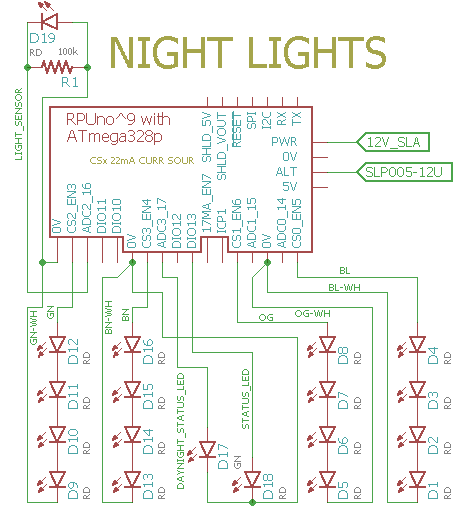
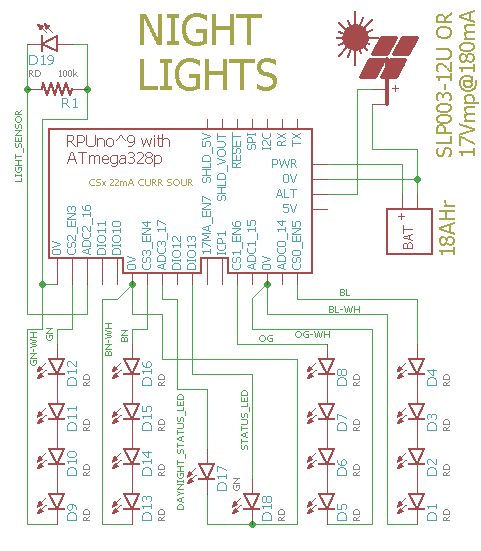
NightLight: add alternate power input for solar panel
bug noted in readme

Changed region(s): [[0.0308, 0.0, 1.0, 0.9679]]

diff --git a/NightLight/main.c b/NightLight/main.c
@@ -31,9 +31,10 @@ http://www.gnu.org/licenses/gpl-2.0.html
 #include "../i2c-debug/i2c-cmd.h"
 #include "../DayNight/day_night.h"
 #include "../AmpHr/chrg_accum.h"
+#include "../Alternat/alternat.h"
 #include "nightlight.h"
 
-#define ADC_DELAY_MILSEC 200UL
+#define ADC_DELAY_MILSEC 100UL
 static unsigned long adc_started_at;
 
 #define STATUS_LED DIO13
@@ -128,6 +129,14 @@ void ProcessCmd()
         {
             Charge(60000UL); // ../AmpHr/chrg_accum.c: show every 60 sec until terminated
         }
+        if ( (strcmp_P( command, PSTR("/alt")) == 0) && ( (arg_count == 0 ) ) )
+        {
+            EnableAlt(); // ../Alternat/alternat.c
+        }
+        if ( (strcmp_P( command, PSTR("/altcnt?")) == 0) && ( (arg_count == 0 ) ) )
+        {
+            AltCount(); // ../Alternat/alternat.c
+        }
     }
     else
     {
@@ -140,15 +149,20 @@ void ProcessCmd()
     }
 }
 
-//At start of each night load the LED control settings from EEPROM and operate them.
+//At start of each night 
 void callback_for_night_attach(void)
 {
-    // If the battery did not reach charge voltage I should skip running the LED's.
-    if (true) 
+    //turn off alternat power input
+    alt_enable = 0; 
+    
+    // If the battery got charged.
+    if (alt_count > 5) 
     {
         for(uint8_t led = 1; led <= LEDSTRING_COUNT; led++)
         {
+            // load the LED control settings from EEPROM
             LoadLedControlFromEEPROM(led); // nightlight.c
+            // operate LED
             StartLed(led); // nightlight.c
         }
     }
@@ -157,10 +171,19 @@ void callback_for_night_attach(void)
 //At start of each day determine the remaining charge and zero the charge and discharge (bank) values.
 void callback_for_day_attach(void)
 {
+    alt_enable = 1; //turn on alternat power input
+    alt_count = 0; // this value is used to tell if the battery got a full charge
+    
     // setup AmpHr accumulators and load Adc calibration reference
     if (!init_ChargAccumulation(PWR_I)) // ../AmpHr/chrg_accum.c
     {
         blink_delay = BLINK_DELAY/4;
+    }
+    
+    // turn off the LED's
+    for (uint8_t led = 1; led <= LEDSTRING_COUNT; led++)
+    {
+        StopLED(led);
     }
 }
 
@@ -171,6 +194,9 @@ void setup(void)
 
     pinMode(DAYNIGHT_STATUS_LED,OUTPUT);
     digitalWrite(DAYNIGHT_STATUS_LED,HIGH);
+
+    pinMode(ALT_EN,OUTPUT);
+    digitalWrite(ALT_EN,LOW);
 
     // Initialize Timers, ADC, and clear bootloader, Arduino does these with init() in wiring.c
     initTimers(); //Timer0 Fast PWM mode, Timer1 & Timer2 Phase Correct PWM mode.
@@ -221,6 +247,12 @@ void setup(void)
     {
         blink_delay = BLINK_DELAY/4;
     }
+
+    // default debounce is 15 min (e.g. 900,000 millis)
+    evening_debouce = 18000UL; // 18 sec
+    morning_debouce = 18000UL;
+    
+    alt_count = 0;
 }
 
 void blink(void)
@@ -274,14 +306,19 @@ void blink_day_status(void)
     }
 }
 
-void adc_burst(void)
+uint8_t adc_burst(void)
 {
     unsigned long kRuntime= millis() - adc_started_at;
     if ((kRuntime) > ((unsigned long)ADC_DELAY_MILSEC))
     {
-        enable_ADC_auto_conversion(BURST_MODE); // ../lib/adc.c
+        enable_ADC_auto_conversion(BURST_MODE);
         adc_started_at += ADC_DELAY_MILSEC; 
+        return 1;
     } 
+    else
+    {
+        return 0;
+    }
 }
 
 int main(void) 
@@ -300,7 +337,10 @@ int main(void)
         CheckDayLight(ADC2); // ../DayNight/day_night.c
 
         // delay between ADC burst
-        adc_burst();
+        if ( adc_burst() )
+        {
+            check_if_alt_should_be_on(PWR_V, 115.8/15.8, 13.6);
+        }
 
         // check how much charge went into battery
         CheckChrgAccumulation(PWR_I);

diff --git a/NightLight/nightlight.c b/NightLight/nightlight.c
@@ -609,6 +609,19 @@ void Time(void)
     }
 }
 
+// led number one has values in its control array at index zero
+void StopLED(uint8_t led_num)
+{
+    if (led[led_num-1].cycle_state)
+    {
+        led[led_num-1].delay_start_sec = 1;
+        led[led_num-1].runtime_sec = 1; 
+        led[led_num-1].delay_sec = 1;
+        led[led_num-1].mahr_stop = MAHR_NOT_SET;
+        led[led_num-1].cycles = 1;
+    }
+}
+
 // arg[0] is led
 void Stop(void)
 {
@@ -626,14 +639,7 @@ void Stop(void)
     else if ( (command_done == 11) )
     {  
         uint8_t led_arg0 = atoi(arg[0]);
-        if (led[led_arg0-1].cycle_state)
-        {
-            led[led_arg0-1].delay_start_sec = 1;
-            led[led_arg0-1].runtime_sec = 1; 
-            led[led_arg0-1].delay_sec = 1;
-            led[led_arg0-1].mahr_stop = MAHR_NOT_SET;
-            led[led_arg0-1].cycles = 1;
-        }
+        StopLED(led_arg0);
         printf_P(PSTR("\"delay_start_sec\":\"%lu\","),(led[led_arg0-1].delay_start_sec));
         command_done = 12;
     }

diff --git a/Alternat/main.c b/Alternat/main.c
@@ -60,11 +60,11 @@ void ProcessCmd()
     }
     if ( (strcmp_P( command, PSTR("/alt")) == 0) && ( (arg_count == 0 ) ) )
     {
-        EnableAlt(); // auxilary.c
+        EnableAlt(); // alternat.c
     }
-    if ( (strcmp_P( command, PSTR("/altcnt")) == 0) && ( (arg_count == 0 ) ) )
+    if ( (strcmp_P( command, PSTR("/altcnt?")) == 0) && ( (arg_count == 0 ) ) )
     {
-        AltCount(); // auxilary.c
+        AltCount(); // alternat.c
     }
 }
 
@@ -114,6 +114,7 @@ void setup(void)
     sei(); 
     
     blink_started_at = millis();
+    day_status_blink_started_at = millis();
     
     rpu_addr = get_Rpu_address();
     blink_delay = BLINK_DELAY;

diff --git a/NightLight/nightlight.h b/NightLight/nightlight.h
@@ -1,6 +1,7 @@
 #ifndef NightLight_H
 #define NightLight_H
 
+// CLI commands
 extern void DelayStart(void);
 extern void RunTime(void);
 extern void Delay(void);
@@ -12,6 +13,9 @@ extern void Time(void);
 extern void Stop(void);
 extern void LedControl(void);
 extern void Reset_All_LED(void);
+
+// functions for main() or others
+extern void StopLED(uint8_t led);
 extern uint8_t LoadLedControlFromEEPROM(uint8_t);
 extern uint8_t Live(uint8_t);
 extern uint8_t StartLed(uint8_t);

diff --git a/i2c-debug/main.c b/i2c-debug/main.c
@@ -30,8 +30,8 @@ http://www.gnu.org/licenses/gpl-2.0.html
 #include "i2c-scan.h"
 #include "i2c-cmd.h"
 
-// 22mA current source enabled with CS0_EN which are defined in ../lib/pins_board.h
-#define STATUS_LED CS0_EN
+// see ../lib/pins_board.h
+#define STATUS_LED DIO13
 
 #define BLINK_DELAY 1000UL
 static unsigned long blink_started_at;

diff --git a/NightLight/README.md b/NightLight/README.md
@@ -1,12 +1,19 @@
 # Night Light
 
+## known bugs
+
+If the sun is up after an MCU reset or power up then alternate power is not enabled until the next day. The workaround is to cover light sensor during reset or power up.
+
+
 ## Overview
 
 RPUno has some current sources that can be used to light LED strings. CS0..CS3 are 22mA souces. Digital 13 is used for I2C status, and Digital 12 is used for Day-Night status. 
 
-Night light uses non-blocking timers to cycle through the led[1|2|3|4].cycle_state that is used to control the current sources. The settings are loaded from EEPROM each night with a callback that is given to DayNight's  Night_AttachWork callback registration function.
+NightLight uses non-blocking timers to cycle through the led[1|2|3|4].cycle_state that is used to control the current sources. Each night the Night_AttachWork event runs. I have it disable the alternate power input and if the battery got charged load values from EEPROM to operate an LED non-blocking timer state machine. Each day the Day_AttachWork event runs. I have this enable the alternate power input and clear counters.
 
-Note: There is no way to check the solar charge gain. the Day_AttachWork() function is given a callback that is used to reset the accumulation values.
+A 12V AGM LA battery is connected to the main power input. A solar panel is connected to the Alternate power input to allow charging the battery.  The Day_AttachWork() function is given a callback that is used to reset the accumulation values.
+
+The solar panel short-circuit current needs to be less than about 1.5A so an SLP020-12U with Isc 1.3A should work, however an SLP030-12U with Isc 1.93 is too much. The battery should charge at 0.1C so for an SLP020-12U it needs to be at least 13AHr. If the charging is about 50% efficient then I will only get back about 3.25AHr of the 6.5AHr that was put in during a 5Hr charging time (that is about what I see). For a reasonable life expectancy, the battery should not discharge more than about 20%, so a minimum size that will do several hundred charge cycles is 16.25AHr.
 
 
 # Wiring LED Strings to RPUno
@@ -40,12 +47,14 @@ This works like [Solenoid] except the mAHr_stop replaces flow_stop, it will stop
 With a serial port connection (set the BOOT_PORT in Makefile) and optiboot installed on the RPUno run 'make bootload' and it should compile and then flash the MCU.
 
 ``` 
-rsutherland@conversion:~/Samba/RPUno/NightLight$ make bootload
+git clone https://github.com/epccs/RPUno/
+cd /RPUno/NightLight
+make bootload
 ...
 avrdude done.  Thank you.
 ``` 
 
-Now connect with picocom (or ilk). Note I am often at another computer doing this through SSH. The Samba folder is for editing the files from Windows.
+Now connect with picocom (or ilk). 
 
 ``` 
 #exit is C-a, C-x
@@ -240,3 +249,9 @@ Report the led (1|2|3|4) runtime in millis.
 
 
 ## [/0/day?](../DayNight#0day)
+
+
+## [/0/alt](../Alternat#0alt)
+
+
+## [/0/altcnt?](../Alternat#0altcnt)

diff --git a/Alternat/README.md b/Alternat/README.md
@@ -65,12 +65,12 @@ This will toggle the Alternat Power enable
 {"alt":"ON"}
 ```
 
-##  /0/altcnt
+##  /0/altcnt?
 
 This gives the number of times the charging limit was reached, it is a clue about how charged the battery is.
 
 ``` 
-/1/altcnt
+/1/altcnt?
 {"alt_count":"2"}
 ``` 
 
@@ -79,12 +79,12 @@ Example with limit set at 13.6V and 180mA solar pannel and 18AHr AGM battery.
 ``` 
 /1/alt
 {"alt_en":"ON"}
-/1/altcnt
+/1/altcnt?
 {"alt_count":"0"}
 /1/analog? 6,7
 {"PWR_I":"0.019","PWR_V":"13.51"}
 {"PWR_I":"0.019","PWR_V":"13.58"}
-/1/altcnt
+/1/altcnt?
 {"alt_count":"1"}
 /1/analog? 6,7
 {"PWR_I":"0.017","PWR_V":"13.51"}
@@ -94,7 +94,7 @@ Example with limit set at 13.6V and 180mA solar pannel and 18AHr AGM battery.
 {"PWR_I":"0.017","PWR_V":"13.47"}
 {"PWR_I":"0.017","PWR_V":"13.51"}
 {"PWR_I":"0.017","PWR_V":"13.58"}
-/1/altcnt
+/1/altcnt?
 {"alt_count":"2"}
 /1/analog? 6,7
 {"PWR_I":"0.017","PWR_V":"13.51"}
@@ -104,7 +104,7 @@ Example with limit set at 13.6V and 180mA solar pannel and 18AHr AGM battery.
 {"PWR_I":"0.017","PWR_V":"13.51"}
 {"PWR_I":"0.017","PWR_V":"13.55"}
 {"PWR_I":"0.017","PWR_V":"13.47"}
-/1/altcnt
+/1/altcnt?
 {"alt_count":"3"}
 ```
 
